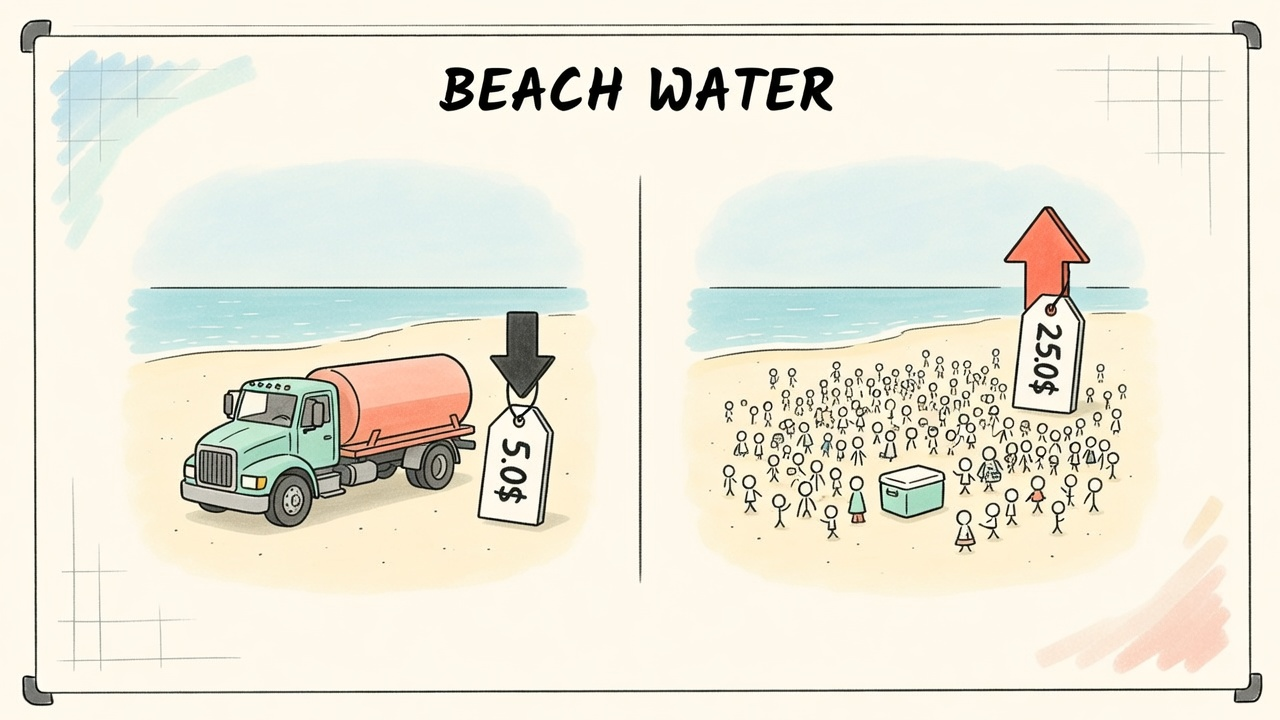
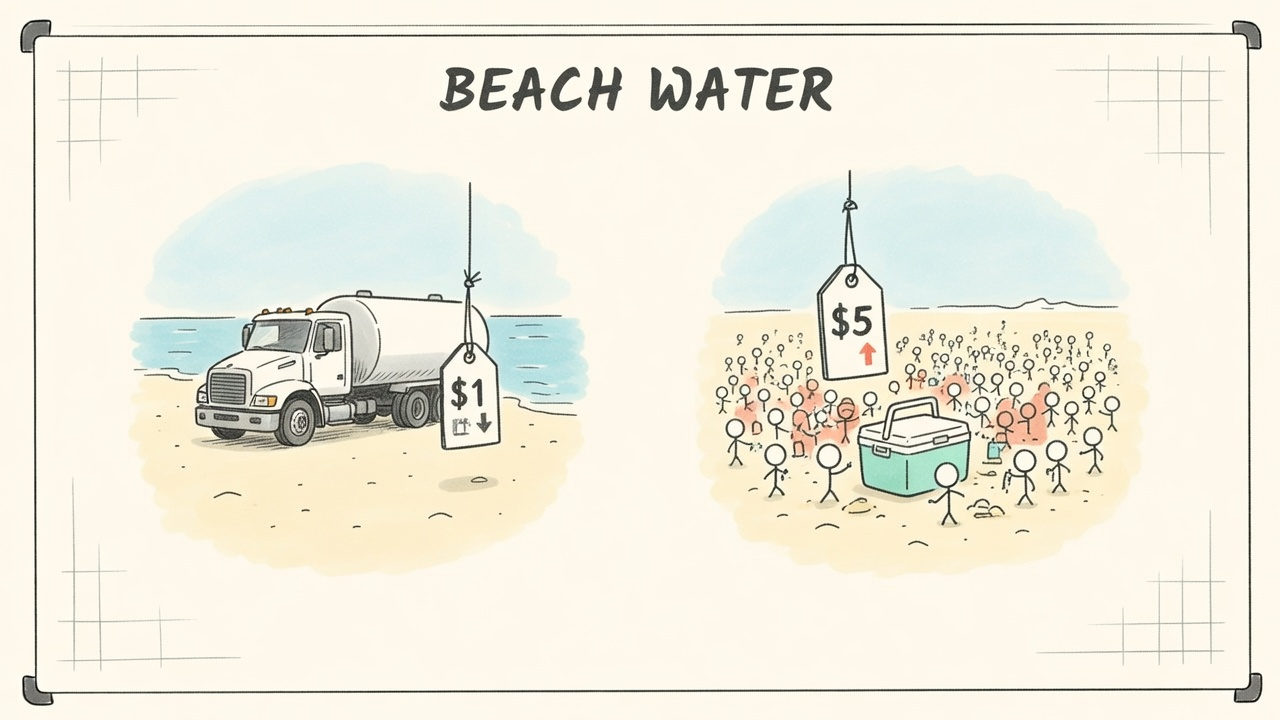
example: beach water sketch shows $1 and $5 price tags

diff --git a/skills/simple-artifact/example/index.html b/skills/simple-artifact/example/index.html
@@ -134,7 +134,7 @@ footer{margin-top:48px;padding-top:14px;border-top:1px solid var(--line);font-si
 <section class="beat"><div class="n">2.1</div><h3>The number one problem is leads, not product</h3><figure><img src="img/s01.jpg" alt="Sketch of an open storefront with an empty street and a tumbleweed, titled NO LEADS" loading="lazy"></figure><div class="vs"><div class="crowd"><b>What the crowd says</b><ul class=""><li>Start by designing the product or service.</li><li>Get it polished, then they will come.</li></ul></div><div class="me"><b>What I say</b><ul class=""><li>Dead wrong. Build first is a trap.</li><li>Most businesses&#x27; number one problem: no leads.</li></ul></div></div></section>
 <section class="beat"><div class="n">2.2</div><h3>Build first is a trap</h3><figure><img src="img/s02.jpg" alt="Sketch of a person happily building inside a mousetrap-shaped cage while a crowd waits down the path, titled BUILD TRAP" loading="lazy"></figure><ul class="cues"><li>Building feels good. Dopamine hits every time you ship a piece.</li><li>That good feeling becomes procrastination. It keeps you from leads and sales.</li></ul><div class="key crit">Building is the most productive-looking way to avoid selling.</div><div class="loop"><span class="q">?</span><p>If building is the trap, what did I do instead that turned into a 300k sale?</p></div></section>
 <section class="beat"><div class="n">2.3 · Story</div><h3>If I build it, they will come</h3><figure><img src="img/s03.jpg" alt="Sketch of a polished app on a launch stage facing empty chairs while money bags fly away, titled NOBODY CAME" loading="lazy"></figure><ul class="cues"><li>Built an app, polished it for a year. No one cared.</li><li>Tens of thousands of dollars spent: hired people, outsourced leads to &quot;marketers&quot;. It did not work.</li></ul><details><summary>Full story</summary><ul class=""><li>Struggled with this for years, believing: if I build it, they will come.</li><li>A couple of years ago: one app, a year of polish, zero interest.</li><li>Frustration led to spending tens of thousands trying to buy a fix: hires, outsourced &quot;marketers&quot;.</li><li>The lesson that came out of it: start with the audience, before any service or product.</li></ul></details><div class="key crit">A year of polish. Tens of thousands spent. Zero audience.</div></section>
-<section class="beat"><div class="n">2.4</div><h3>The hidden second cost of no leads: your price</h3><figure><img src="img/s07.jpg" alt="Split sketch of a water truck on an empty beach with a falling price and one cooler on a packed beach with a rising price, titled BEACH WATER" loading="lazy"></figure><div class="vs"><div class="crowd"><b>What the crowd says</b><ul class=""><li>Price is set by the market. Compete on price.</li></ul></div><div class="me"><b>What I say</b><ul class=""><li>Supply and demand is micro economics, and you control it.</li><li>More demand than supply, the price goes up.</li></ul></div></div><ul class="cues"><li>Beach one: truck full of water, other sellers, ten people on the sand. Charge little.</li><li>Beach two: packed beach, one cooler of ice cold bottles, only seller. Charge more.</li></ul><div class="key">Generate more demand than supply and the price goes up.</div></section>
+<section class="beat"><div class="n">2.4</div><h3>The hidden second cost of no leads: your price</h3><figure><img src="img/s07.jpg" alt="Split sketch of a water truck on an empty beach with a $1 tag and one cooler on a packed beach with a $5 tag, titled BEACH WATER" loading="lazy"></figure><div class="vs"><div class="crowd"><b>What the crowd says</b><ul class=""><li>Price is set by the market. Compete on price.</li></ul></div><div class="me"><b>What I say</b><ul class=""><li>Supply and demand is micro economics, and you control it.</li><li>More demand than supply, the price goes up.</li></ul></div></div><ul class="cues"><li>Beach one: truck full of water, other sellers, ten people on the sand. Charge little.</li><li>Beach two: packed beach, one cooler of ice cold bottles, only seller. Charge more.</li></ul><div class="key">Generate more demand than supply and the price goes up.</div></section>
 <section class="part" id="value"><div class="eyebrow">3 · Value</div><h2>Audience first, then a premium offer, then short form leads every day</h2></section>
 <section class="beat"><div class="n">3.1 · The shift</div><h3>Start with the audience, before any product or service</h3><figure><img src="img/s04.jpg" alt="Sketch of a large crowd numbered 1 with an arrow to a small product box numbered 2, titled AUDIENCE FIRST" loading="lazy"></figure><ul class="cues"><li>What are you selling, what problem are you solving, if you do not start with the audience?</li><li>The audience tells you what to build and who pays for it.</li></ul><div class="key ok">Audience first. Always.</div></section>
 <section class="beat"><div class="n">3.2 · Who to attract</div><h3>Four types of audience, one premium offer</h3><figure><img src="img/s05.jpg" alt="Sketch of a two by two grid with the painful and specific cell circled and a crown labeled RICH, titled PREMIUM OFFER" loading="lazy"></figure><ul class="cues"><li>Two axes: optional vs painful. General vs specific.</li><li>Target the corner: the most painful, most specific problem you can solve.</li><li>For the richest people you can solve it for.</li><li>That is a premium offer. It is the key to success. Works in any niche.</li></ul><div class="key">Painful + specific + rich = premium offer.</div></section>
